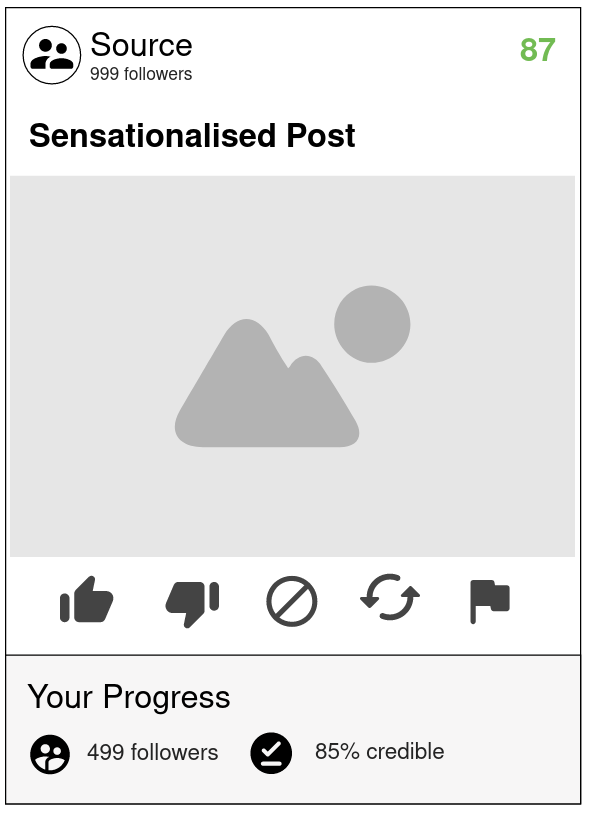
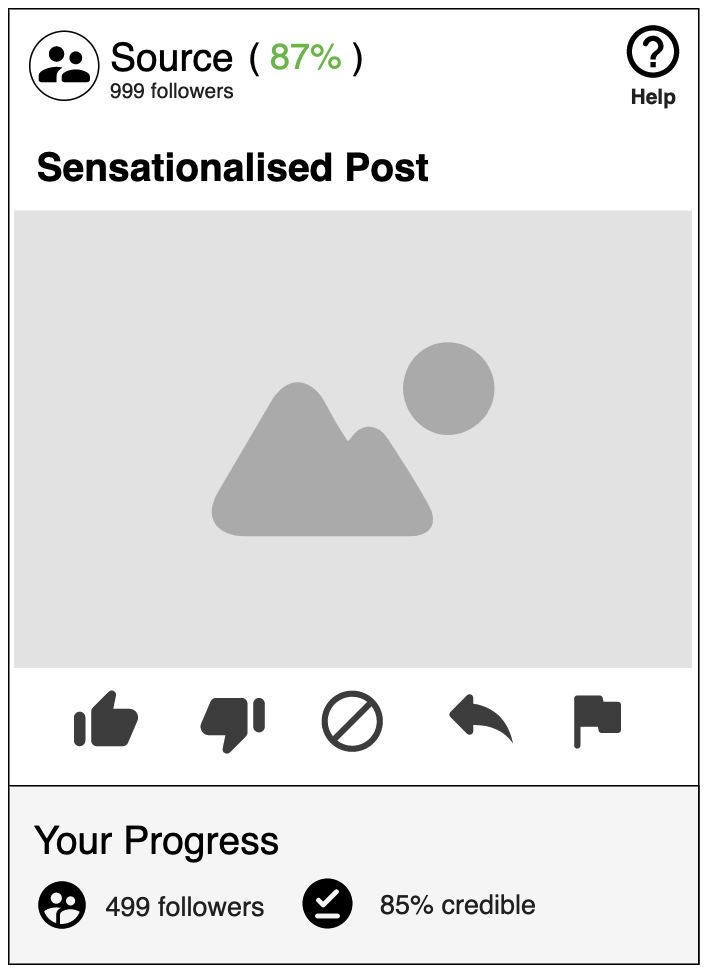
Finish overview of the web app, and add mockups of the help/introduction screen, and the prompt screen

diff --git a/docs/DESIGN.md b/docs/DESIGN.md
@@ -1,19 +1,21 @@
-# The Game
-The Misinformation Game is built as a web app so that it can be
+# Overview
+
+The Misinformation Game will be built as a web app so that it can be
 accessed from desktop and mobile devices. Users will access a game URL
 where they will be prompted with instructions for participating in a
-social media simulation game. The game will show the users a mixture of
-true and false social media posts, and the users will be prompted to
-like, share, skip, dislike, or flag each post. Every interaction of the
-user with these posts (except skipping) will influence their own
-followers and credibility rating. For example, sharing true posts may
-slowly grow the users followers and improve their credibility, whereas
-sharing false posts may grow the users followers very quickly, but
-reduce their credibility. The changes to user's followers and
-credibility when they like, share, dislike, or flag each post can be
-controlled by the researchers. Similarly, the sources of each social
-media post will be randomised, and their followers and credibility
-rating will also be changed throughout the experiment. 
+social media simulation game. The game will show the users a mixture
+of true and false social media posts, and the users will be prompted
+to like, share, skip, dislike, or flag each post. Every interaction
+of the user with these posts (except skipping) will influence their
+own followers and credibility rating. For example, sharing true
+posts may slowly grow the users followers and improve their
+credibility, whereas sharing false posts may grow the users
+followers very quickly, but reduce their credibility. The changes to
+user's followers and credibility when they like, share, dislike, or
+flag each post can be controlled by the researchers. Similarly, the
+sources of each social media post will be randomised, and thei
+followers and credibility rating will also be changed throughout
+the experiment. 
 
 Every game that is played by users is independent, and therefore users
 interactions with the game will not affect one another. As users play
@@ -31,20 +33,47 @@ shown:
 The researchers will access these CSV files through an admin
 interface. There will need to be a method of authenticating
 researchers to restrict access to the admin page, and another
-way to give new researchers access. The admin page will display a
+way to grant new researchers access. The admin page will display a
 list of all studies that have been uploaded to the system. The
 researchers will then be able to open any study, which will take
 them to a separate page where they can download the results
 from participants in the study.
 
 The admin page will also provide functionality for researchers to
-upload new studies, and update existing studies.
+upload new studies, and update existing studies. This will be
+achieved through an Excel template that researchers can edit with
+the details of the study, which can then be uploaded through the
+admin page. This Excel template will contain the following
+information:
+- A name for the study.
+- A description for the study.
+- The prompt that the user will be shown before they start the game.
+- The sources to be included in the game, including:
+  - Name.
+  - Avatar Image.
+  - Ratio of true and false posts.
+  - Initial followers mean and std. deviation.
+  - Initial credibility rating mean and std. deviation.
+- The posts to be included in the game, including:
+  - Headline.
+  - Content image or text.
+  - Changes to followers for liking, disliking, sharing, or
+    flagging the post.
+  - Changes to credibility for liking, disliking, sharing, or
+    flagging the post.
+
 
 # UI Design
 
 The web app must be designed to be accessible from both desktop and
 mobile devices, and therefore it should follow a responsive design.
-A mockup of the game screen is shown below, however the mockup is
-missing a way for users to access a help page for playing the game.
 
-![mockup of game UI](game-mockup.png)
+
+### Help / Introduction Screen Mockup
+![Mockup of the help & introduction screen](help-mockup.png)
+
+### Prompt Screen Mockup
+![Mockup of the prompt screen](prompt-mockup.png)
+
+### Game Screen Mockup
+![Mockup of game screen](game-mockup.png)
